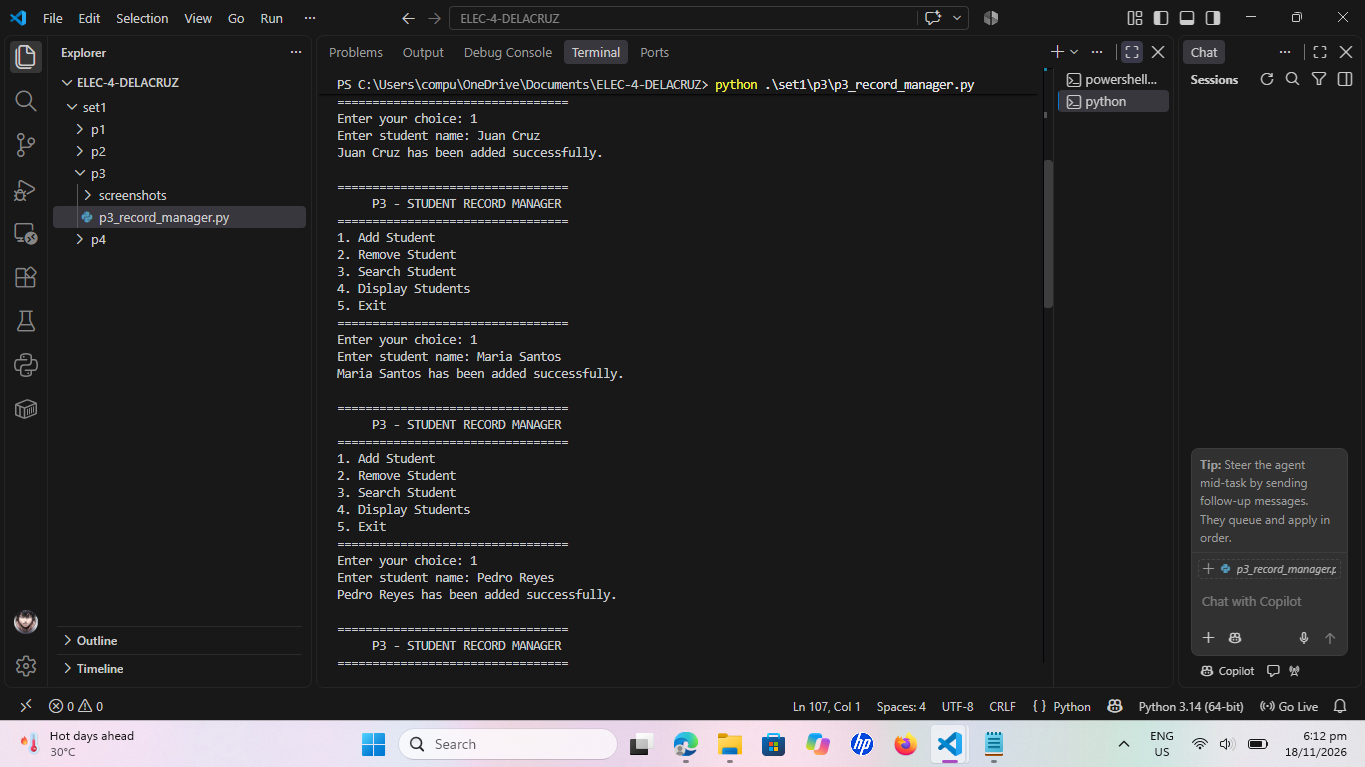
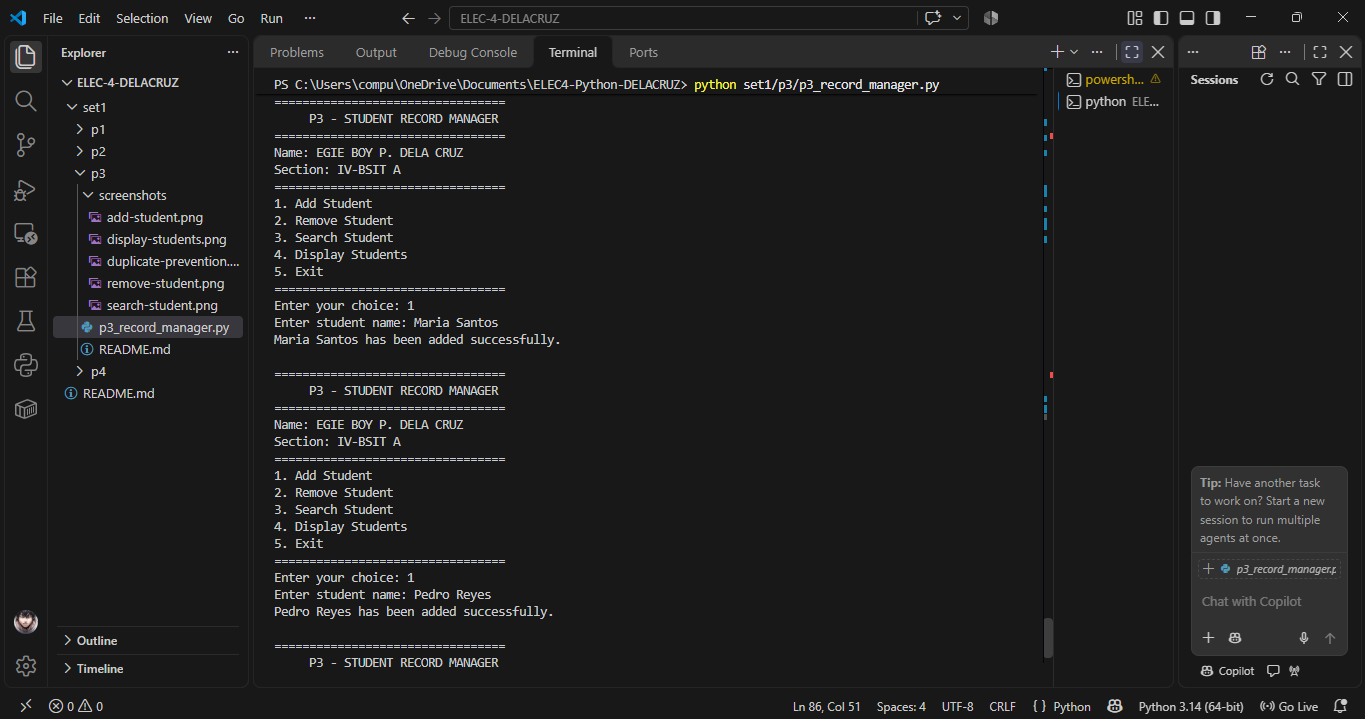
P3: Add student identity and update screenshots

diff --git a/set1/p3/p3_record_manager.py b/set1/p3/p3_record_manager.py
@@ -81,6 +81,9 @@ def main():
         print("\n=================================")
         print("     P3 - STUDENT RECORD MANAGER")
         print("=================================")
+        print("Name: EGIE BOY P. DELA CRUZ")
+        print("Section: IV-BSIT A")
+        print("=================================")
         print("1. Add Student")
         print("2. Remove Student")
         print("3. Search Student")
